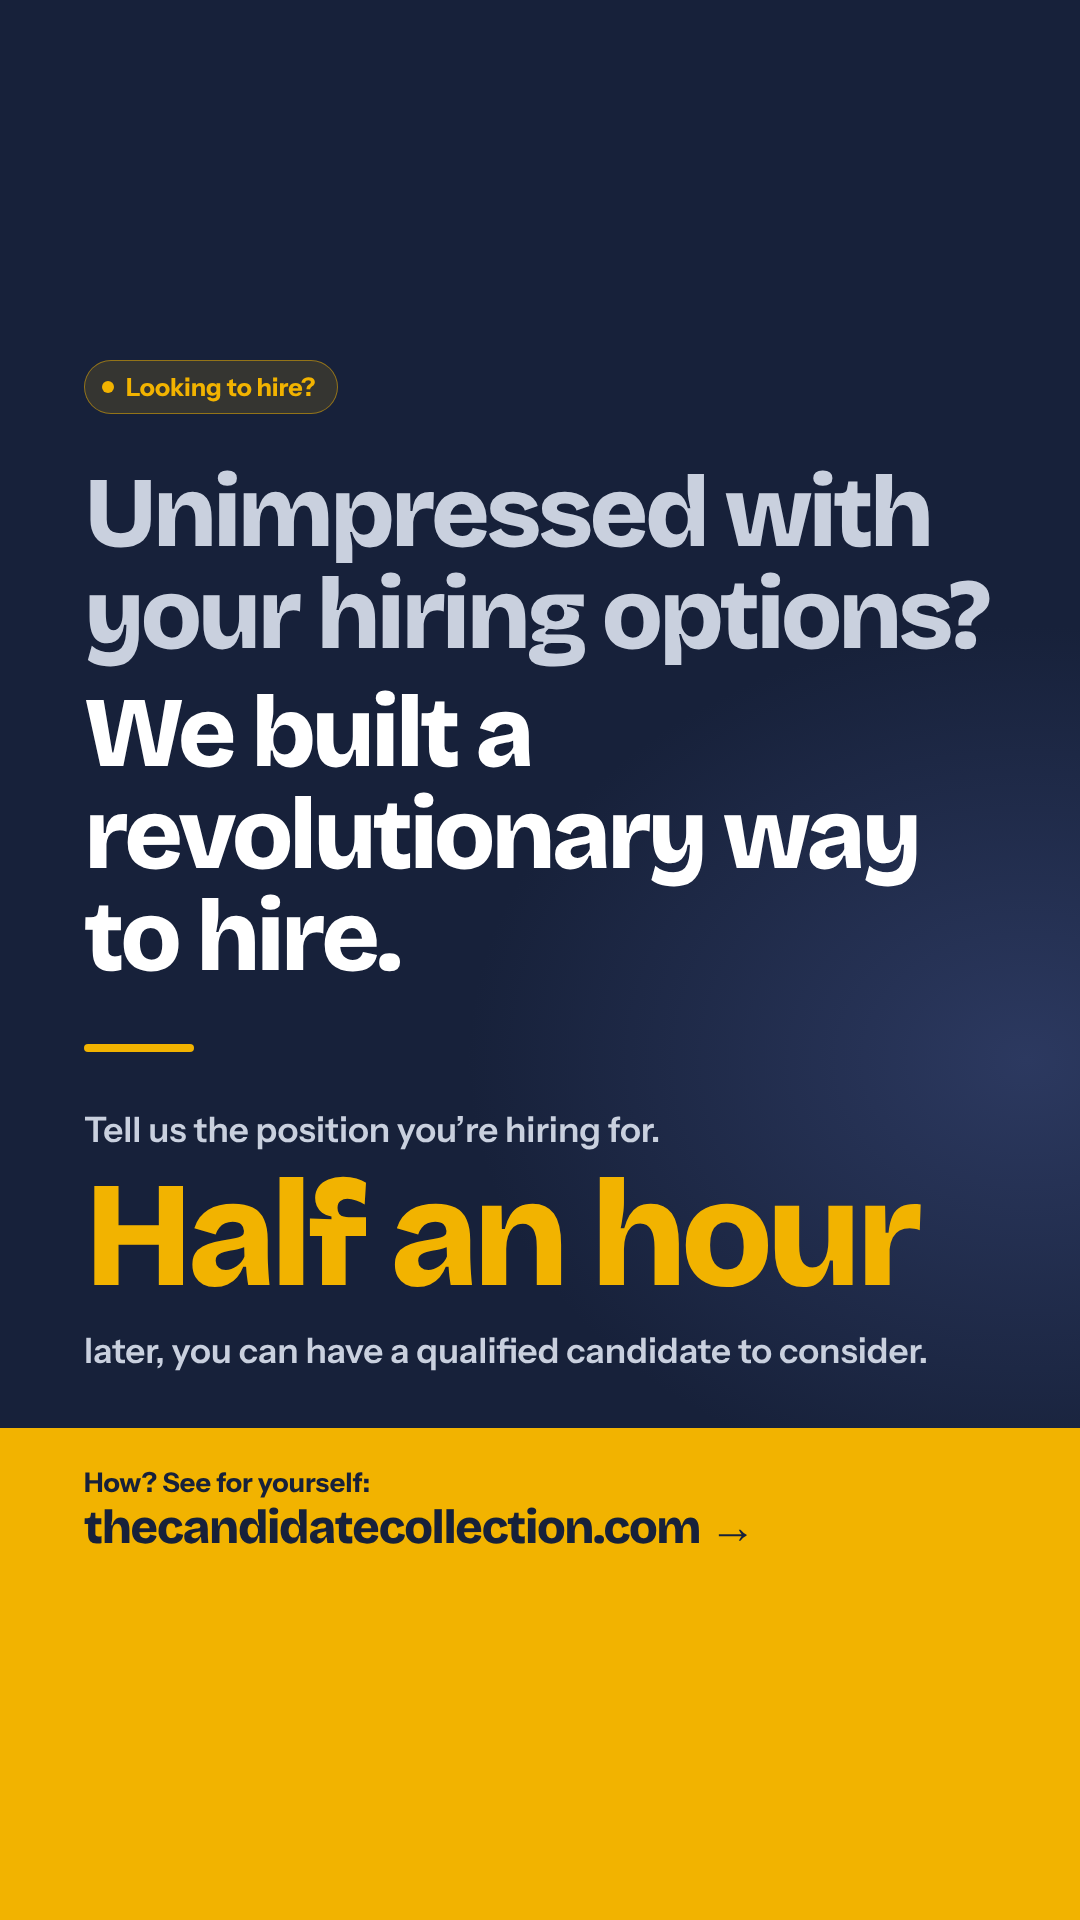
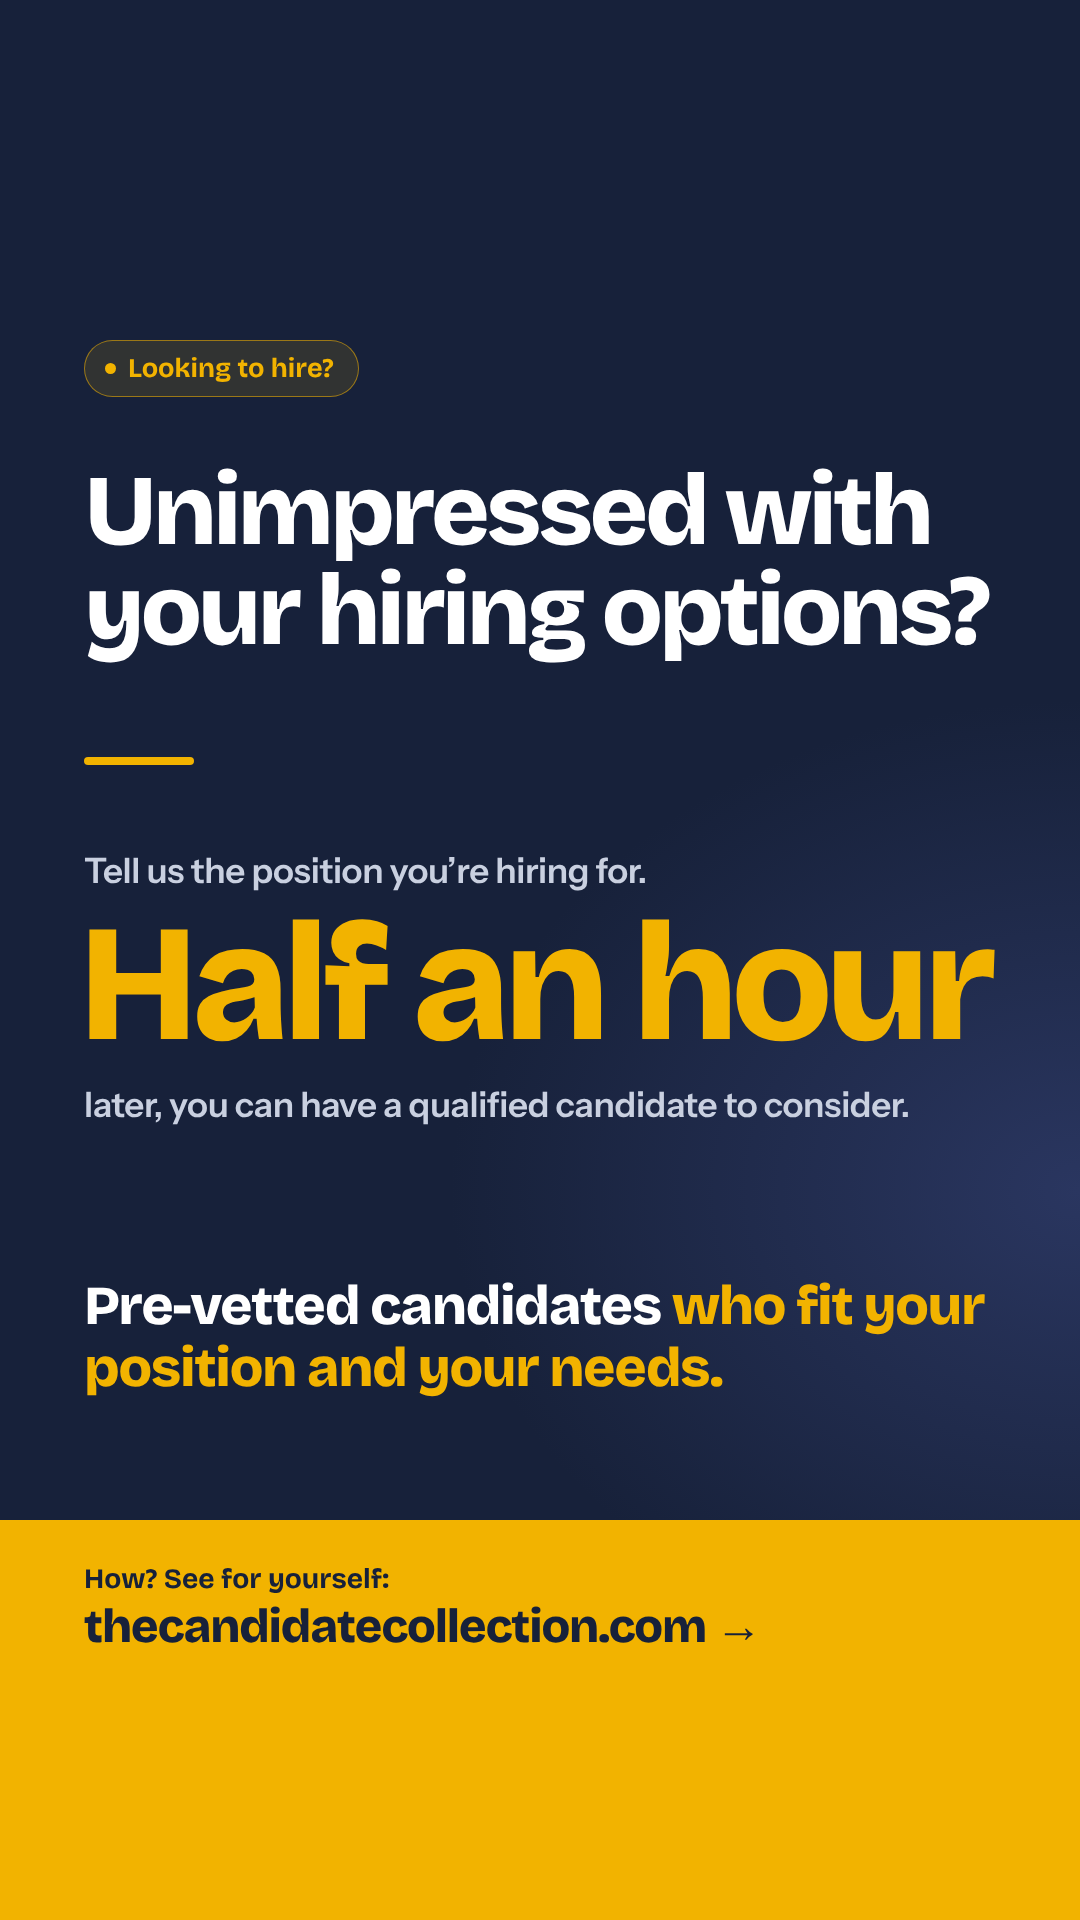
Share kit teaser: Shloimy's version (question, half hour, pre-vetted), both sizes
Claude-Session: https://claude.ai/code/session_01EZeEyNzeQFPN4DFsUvzuMe

Changed region(s): [[0.0, 0.25, 1.0, 0.875], [0.0611, 0.1562, 0.3361, 0.2188]]

diff --git a/src/lib/shareKit.ts b/src/lib/shareKit.ts
@@ -24,9 +24,9 @@ export function ownerMessage(ref?: string | null) {
   return `If hiring has ever felt like more work than it should be, this is for you.\n\nSee how it works: ${shareLink(ref, "home")}`;
 }
 
-// The teaser: the new front-page message, one link, meant to make an owner curious.
+// The teaser: the question, the half-hour promise, what you get. One link.
 export function ownerTeaser(ref?: string | null) {
-  return `Unimpressed with your hiring options? We built a revolutionary way to hire.\n\nTell us the position you're hiring for. Half an hour later, you can have a qualified candidate to consider.\n\nSee how: ${shareLink(ref, "home")}`;
+  return `Unimpressed with your hiring options?\n\nTell us the position you're hiring for. Half an hour later, you can have a qualified candidate to consider.\n\nPre-vetted candidates who fit your position and your needs.\n\nSee how: ${shareLink(ref, "home")}`;
 }
 
 // The candidate side: a warm note from a rep to their network.
